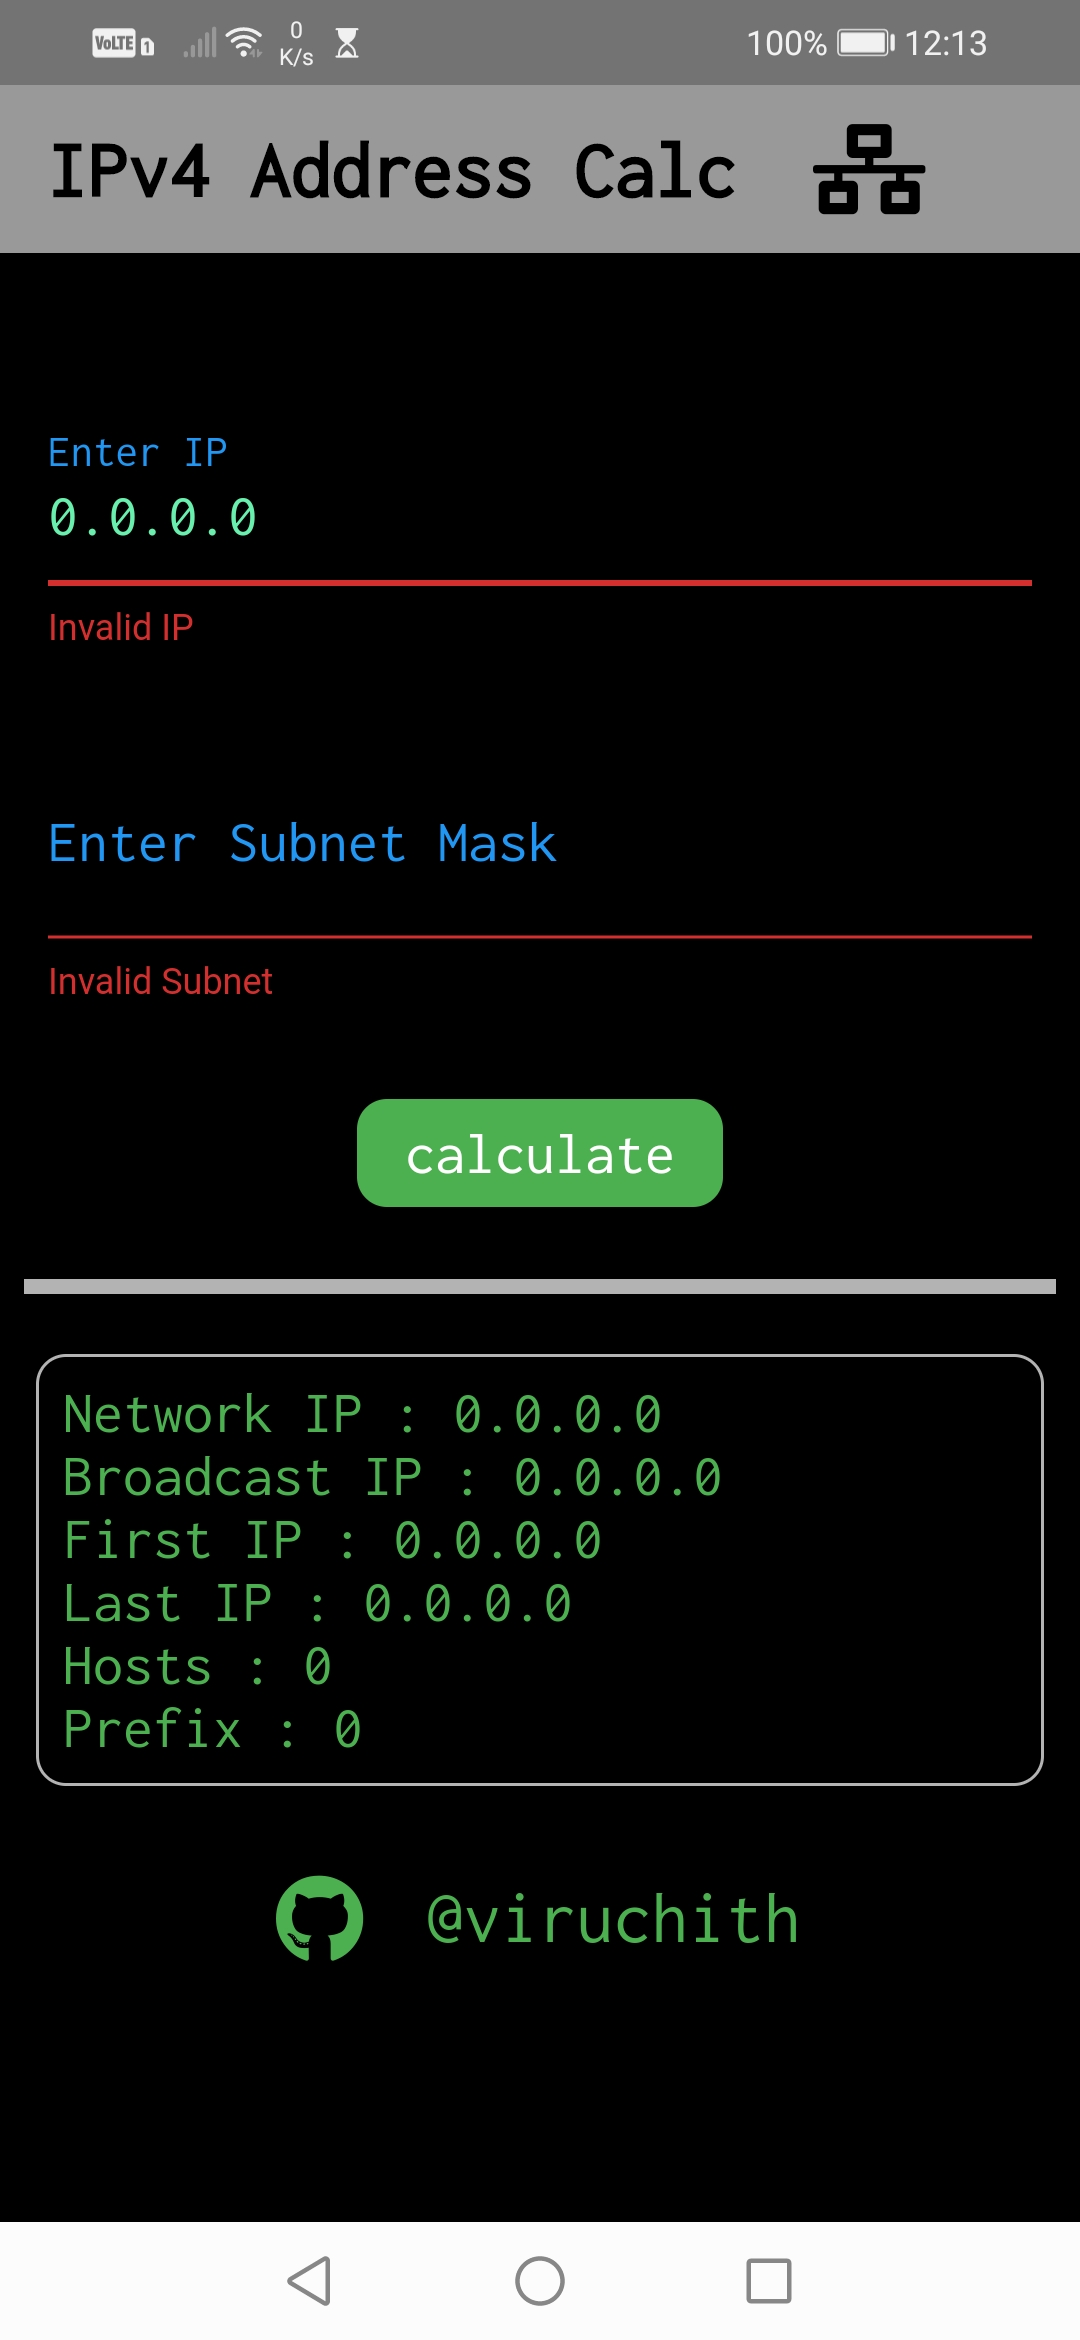
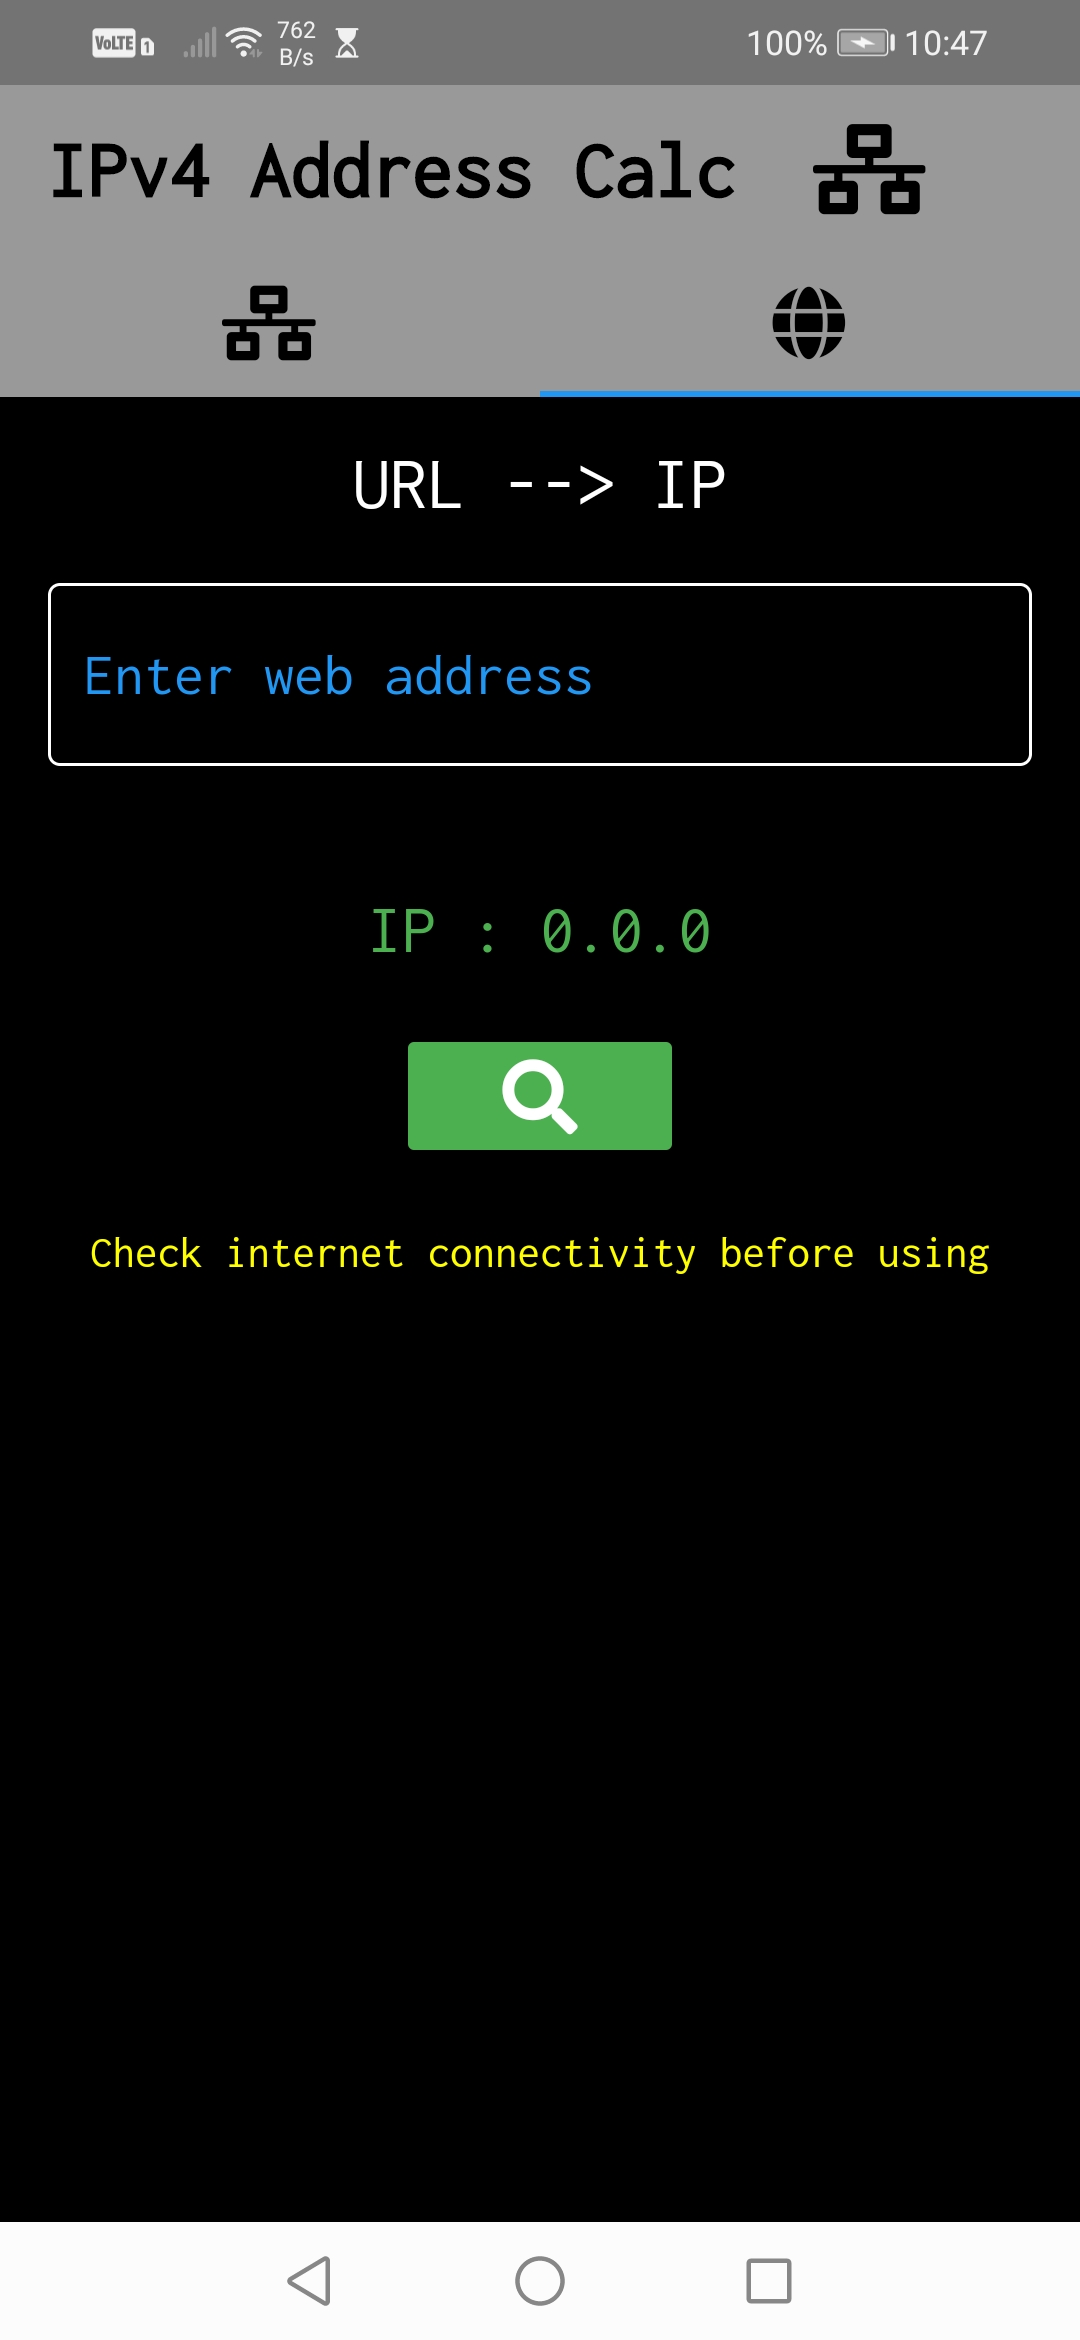
url to ip added

diff --git a/lib/main.dart b/lib/main.dart
@@ -1,42 +1,69 @@
+import 'dart:io';
 import 'package:flutter/material.dart';
 import 'package:font_awesome_flutter/font_awesome_flutter.dart';
 import 'package:url_launcher/url_launcher.dart';
 import 'calc.dart';
 
 void main() {
-  runApp(
-    MaterialApp(
+  runApp(AppTabBar());
+}
+
+
+class AppTabBar extends StatelessWidget {
+  @override
+  Widget build(BuildContext context) {
+    return MaterialApp(
       debugShowCheckedModeBanner:false,
-      home: Scaffold(
-        backgroundColor: Colors.black12,
-        appBar: AppBar(
-          centerTitle: true,
-          leading:null,
-          title:Row(
+      home: DefaultTabController(
+        length:2,
+        child: Scaffold(
+          backgroundColor: Colors.black12,
+          appBar: AppBar(
+            centerTitle: true,
+            leading:null,
+            bottom:TabBar(
+                tabs:[
+                  Tab(
+                    icon:FaIcon(FontAwesomeIcons.networkWired,size:25,color: Colors.black,),
+                  ),
+                  Tab(
+                    icon:FaIcon(FontAwesomeIcons.globe,size:25,color: Colors.black,),
+                  )
+                ] ),
+            title:Row(
+              children: <Widget>[
+                Text('IPv4 Address Calc',
+                  style:TextStyle(
+                      fontSize: 27,
+                      fontFamily: "Inconsolata",
+                      fontWeight: FontWeight.bold,
+                      color: Colors.black
+                  ),),
+                SizedBox(
+                  width:25.0,
+                ),
+                FaIcon(FontAwesomeIcons.networkWired,color: Colors.black,size:30,),
+              ],
+            ),
+            backgroundColor: Colors.white60,
+
+          ),
+          body:TabBarView(
             children: <Widget>[
-              Text('IPv4 Address Calc',
-              style:TextStyle(
-                fontSize: 27,
-                fontFamily: "Inconsolata",
-                fontWeight: FontWeight.bold,
-                color: Colors.black
-              ),),
-              SizedBox(
-                width:25.0,
-              ),
-              FaIcon(FontAwesomeIcons.networkWired,color: Colors.black,size:30,),
+              SingleChildScrollView(
+                  child: ConstrainedBox(
+                      constraints:BoxConstraints(),
+                      child: Home())),
+              SingleChildScrollView(
+                  child: ConstrainedBox(
+                      constraints:BoxConstraints(),
+                      child: AddressToIp())),
             ],
           ),
-          backgroundColor: Colors.white60,
-
         ),
-      body:SingleChildScrollView(
-          child:ConstrainedBox(
-              constraints:BoxConstraints() ,
-              child: Home())),
       ),
-    ),
-  );
+    ) ;
+  }
 }
 
 
@@ -66,9 +93,11 @@ class _HomeState extends State<Home> {
 
  RegExp ipPattern = new RegExp(r"^(25[0-5]|2[0-4][0-9]|[01]?[0-9][0-9]?)\.(25[0-5]|2[0-4][0-9]|[01]?[0-9][0-9]?)\.(25[0-5]|2[0-4][0-9]|[01]?[0-9][0-9]?)\.(25[0-5]|2[0-4][0-9]|[01]?[0-9][0-9]?)");
 
+
  bool validateIp(String ip){
    return ipPattern.hasMatch(ip);
  }
+
 
  @override
   Widget build(BuildContext context) {
@@ -303,3 +332,146 @@ class _HomeState extends State<Home> {
   }
 }
 
+class AddressToIp extends StatefulWidget {
+  @override
+  _AddressToIpState createState() => _AddressToIpState();
+}
+
+class _AddressToIpState extends State<AddressToIp> {
+
+  String _domain_ip = '0.0.0';
+
+  final _text1 = TextEditingController();
+
+  bool _validate1 = true;
+
+  String _ermsg = '';
+
+  RegExp _pattern = new RegExp(r'[-a-zA-Z0-9@:%._\+~#=]{1,256}\.[a-zA-Z0-9()]{1,6}\b([-a-zA-Z0-9()@:%_\+.~#?&//=]*)');
+
+  //void getIp() async{
+
+//}
+
+
+  @override
+  Widget build(BuildContext context) {
+    return Center(
+      child:Padding(
+        padding: const EdgeInsets.all(16.0),
+        child: Column(
+          mainAxisAlignment:MainAxisAlignment.center,
+          children: <Widget>[
+            Container(
+              child:Text('URL --> IP',
+              style:TextStyle(
+                fontFamily: "Inconsolata",
+                fontSize: 25,
+                color: Colors.white
+              ),),
+            ),
+            SizedBox(
+              height:20,
+            ),
+            TextField(
+              maxLength:30,
+              controller: _text1,
+              style: TextStyle(
+                  fontFamily: "Inconsolata",
+                  color: Colors.green,
+                  fontSize:20
+              ),
+              decoration:InputDecoration(
+                hintText:'www.example.com',
+                hintStyle:TextStyle(
+                    fontFamily: "Inconsolata",
+                    color: Colors.greenAccent
+                ),
+                labelStyle:TextStyle(
+                  fontFamily: "Inconsolata",
+                  color:Colors.blue,
+                ),
+                enabledBorder: OutlineInputBorder(
+                    borderSide: BorderSide(color:Colors.white,style:BorderStyle.solid)
+                ),
+                labelText:'Enter web address',
+                errorText:_validate1?null: _ermsg,
+              ),
+            ),
+            SizedBox(
+              height:20,
+            ),
+            Text('IP : $_domain_ip',
+              style:TextStyle(
+                  fontSize:23,
+                  color: Colors.green,
+                  fontFamily:'Inconsolata'
+              ),),
+            SizedBox(
+              height:20,
+            ),
+            RaisedButton(
+
+                onPressed:()async{
+                  _validate1 = true;
+                  _domain_ip = '0.0.0.0';
+                  if(_text1.text.isEmpty){
+                    _ermsg = 'cannot be empty' ;
+                    _validate1 = false;
+                  }
+                  else if(_pattern.hasMatch(_text1.text)){
+
+                    try{
+                      //var stream = await ping(_text1.text,times:5);
+                      final result = await InternetAddress.lookup(_text1.text);
+                      if (result.isNotEmpty && result[0].rawAddress.isNotEmpty) {
+                        print('connected');
+                        print(result[0].address);
+                        _domain_ip = result[0].address;
+                      }else{
+                        _validate1 = false;
+                        _ermsg = 'Invalid url !' ;
+                      }
+                    }on SocketException catch(_){
+                      _validate1 = false;
+                      _ermsg = 'try again !' ;
+                      print('Eroor........');
+                    }
+
+
+                  }else{
+                    _ermsg = 'address format : www.example.domain';
+                    _validate1 = false;
+                  }
+                  setState(() {
+
+                    print('Entered state');
+
+                  });
+
+                },
+              color:Colors.green,
+              child:FaIcon(
+                FontAwesomeIcons.search,
+                size:25,
+                color:Colors.white,
+              ),
+            ),
+            SizedBox(
+              height: 20,
+            ),
+            Center(
+              child: Text('Check internet connectivity before using',
+                  style:TextStyle(
+                  fontSize:15,
+                  color: Colors.yellowAccent,
+                  fontFamily:'Inconsolata'
+              ),
+              ),
+            ),
+          ],
+        ),
+      ),
+    );
+  }
+}

diff --git a/README.md b/README.md
@@ -1,8 +1,15 @@
 # IPv4 Address Calculator App
 
-A Simple Flutter application to calculate Network IP,Broadcast IP,
-First usable IP ,Last Usable IP, Prefix , Hosts for a given 
-Ipv4 Address and Subnet Mask.
+A Simple Flutter application to calculate
+-  Network IP,Broadcast IP
+- First usable IP
+- Last Usable IP
+- Prefix
+- Hosts  
+   
+for a given Ipv4 Address and Subnet Mask.
+
+- URL to IP conversionfeature  is also available .
 
 ## Getting Started
 
@@ -11,7 +18,11 @@ You can download the Android app by clicking the link below.
 - [Download: Click here to Download the  app](https://drive.google.com/file/d/1Rrsbr_6HV1iDp0p10RI1ToIL9l8GCIoW/view?usp=sharing)
 
 
-## Overview
+## Overview  
+  
+### IPv4 Address calc
+
+
 
 ![Image 1: ](scrnshots/scrnshot1.jpg)
   
@@ -21,6 +32,13 @@ You can download the Android app by clicking the link below.
 ![Image 1: ](scrnshots/scrnshot2.jpg)
   
   
+### URL to IP  
   
+  
+
+![Image 1: ](scrnshots/scrnshot3.jpg)
+
+
+
 
 ![Image 1: ](scrnshots/scrnshot3.jpg)
